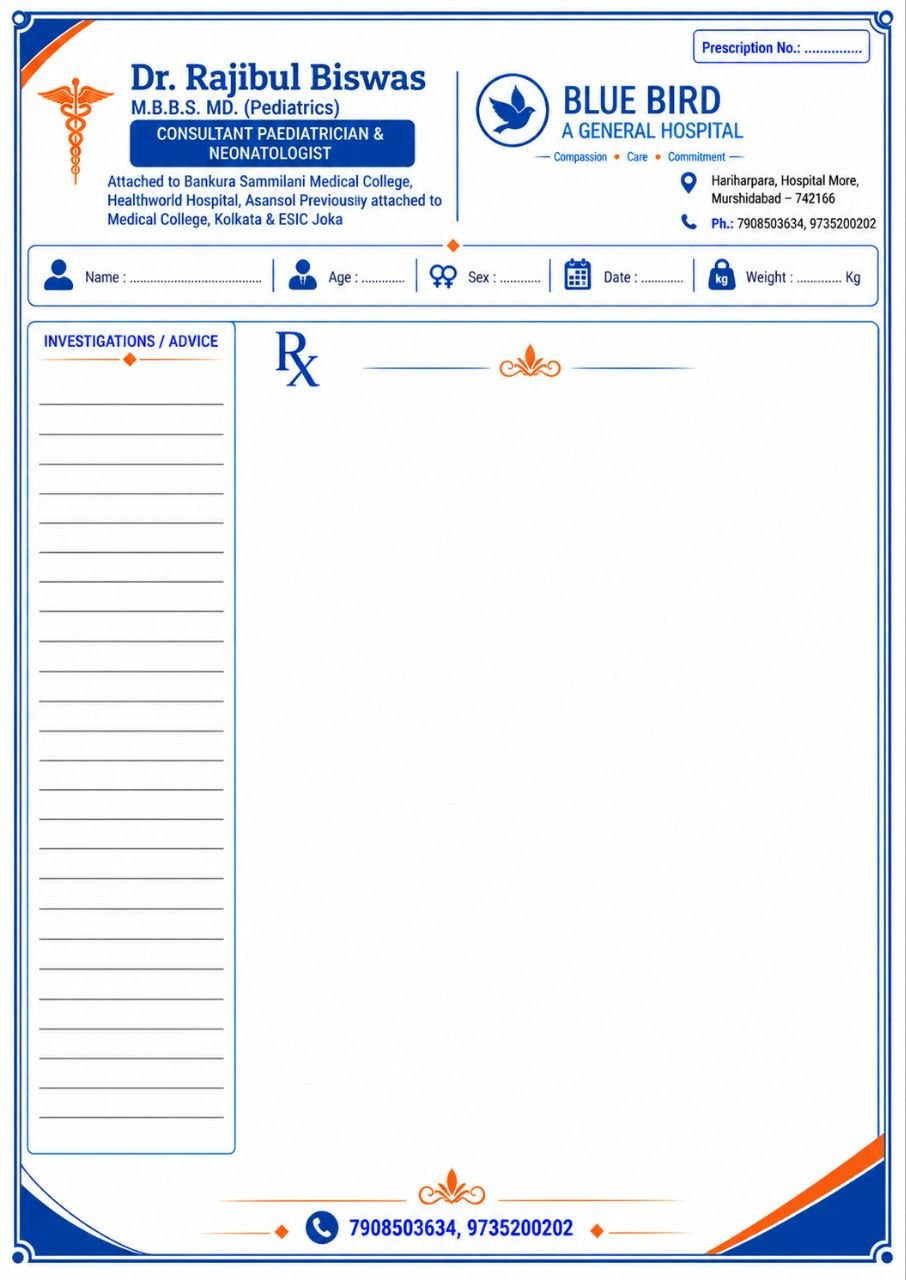
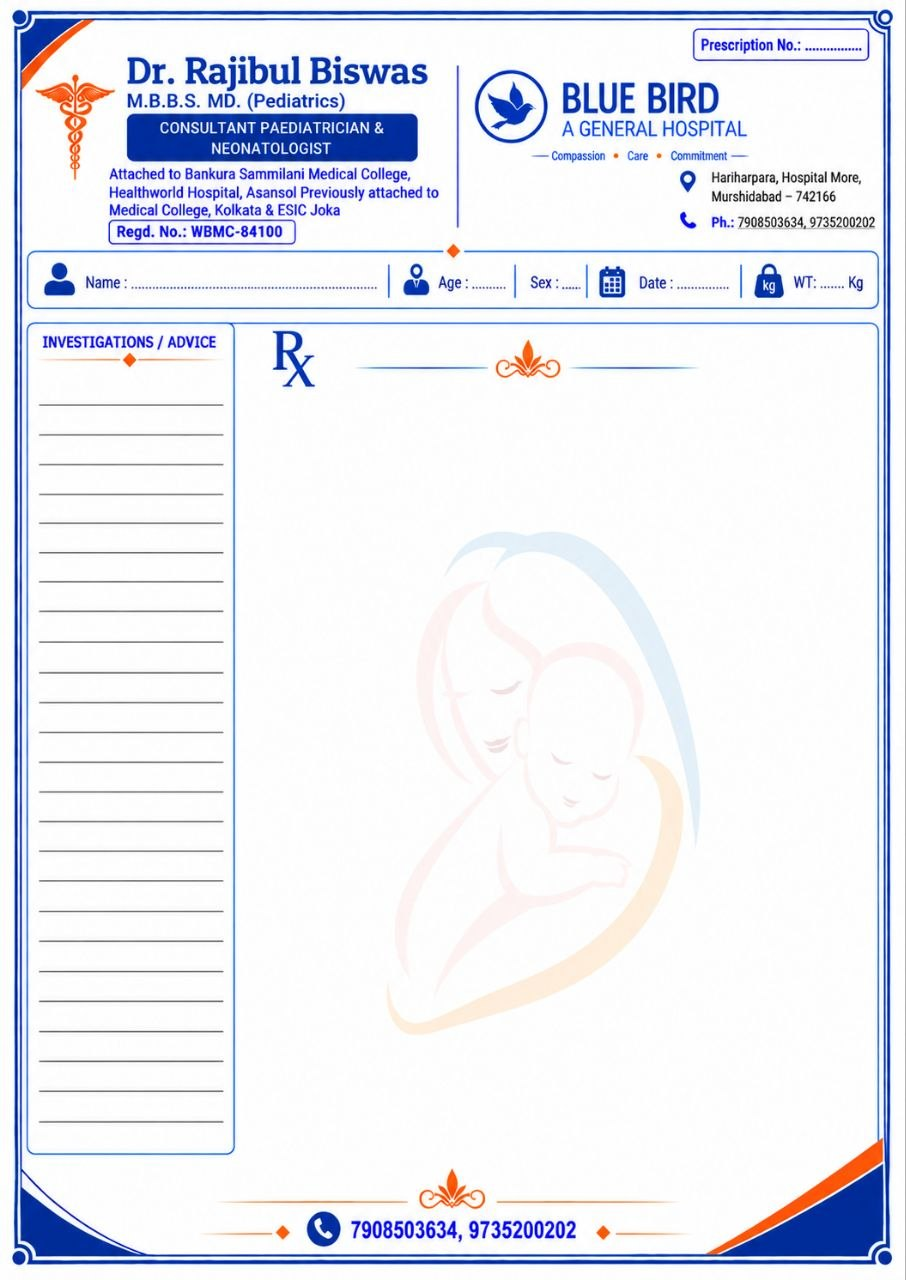
Update Rajibul Biswas prescription pad

Changed region(s): [[0.0, 0.0, 0.989, 1.0], [0.4327, 0.4062, 0.7726, 0.8125]]

diff --git a/app/src/main/java/com/maternaltracker/india/MainActivity.java b/app/src/main/java/com/maternaltracker/india/MainActivity.java
@@ -163,7 +163,7 @@ public class MainActivity extends Activity {
             "MBBS, PGPN, DCH | Child Specialist | REG NO.: 68725 (WBMC)",
             "MBBS, MS (General Surgeon) | Consultant Laparoscopic & General Surgeon | REG NO.: 76636 (WBMC)",
             "M.B.B.S. (WBUHS), M.S. Obstetrics & Gynaecology | Laparoscopic Surgeon | Ex House Physician Burdwan Medical College & Hospital | Ex Medical Officer at Rajnagar Block Hospital | Murshidabad Medical College & Hospital | Regd. 71244 (WBMC)",
-            "M.B.B.S. MD. (Pediatrics) | Consultant Paediatrician & Neonatologist | Attached to Bankura Sammilani Medical College, Healthworld Hospital, Asansol | Previously attached to Medical College, Kolkata & ESIC Joka"
+            "M.B.B.S. MD. (Pediatrics) | Consultant Paediatrician & Neonatologist | Attached to Bankura Sammilani Medical College, Healthworld Hospital, Asansol | Previously attached to Medical College, Kolkata & ESIC Joka | Regd. No.: WBMC-84100"
     };
     private static final String[] PRESCRIPTION_ASSETS = {
             "print_forms/prescription_suyeta_nasrin.jpg",
@@ -4021,6 +4021,13 @@ public class MainActivity extends Activity {
 
         LinearLayout choices = new LinearLayout(this);
         choices.setOrientation(LinearLayout.VERTICAL);
+        ScrollView choiceScroller = new ScrollView(this);
+        choiceScroller.setFillViewport(false);
+        choiceScroller.setOverScrollMode(View.OVER_SCROLL_IF_CONTENT_SCROLLS);
+        int maxChoiceHeight = Math.min(
+                dp(520),
+                (int) (getResources().getDisplayMetrics().heightPixels * 0.52f)
+        );
         AlertDialog dialog = new AlertDialog.Builder(this)
                 .setView(content)
                 .setNegativeButton("Cancel", null)
@@ -4039,7 +4046,8 @@ public class MainActivity extends Activity {
             });
             choices.addView(choice);
         }
-        content.addView(choices);
+        choiceScroller.addView(choices, new ScrollView.LayoutParams(-1, -2));
+        content.addView(choiceScroller, new LinearLayout.LayoutParams(-1, maxChoiceHeight));
         dialog.setOnShowListener(ignored -> {
             if (dialog.getWindow() != null) {
                 dialog.getWindow().setBackgroundDrawable(rounded(SURFACE_ALT, dp(CARD_RADIUS), 0, SURFACE_ALT));

diff --git a/SPEC.md b/SPEC.md
@@ -1,7 +1,7 @@
 # Blue Bird Maternal Tracker Specification
 
-Last updated: 2026-09-20
-Current app version: `1.1.37` / versionCode `45`
+Last updated: 2026-09-21
+Current app version: `1.1.38` / versionCode `46`
 Package: `com.maternaltracker.india`  
 Hospital scope: `BLUE BIRD A GENERAL HOSPITAL`
 
@@ -72,7 +72,7 @@ Prescription selection:
 - DR. SUDIPTA BISWAS - MBBS, PGPN, DCH
 - DR. PIARUL SK - MBBS, MS (General Surgeon)
 - DR. RAJU MAHAJAN - M.B.B.S. (WBUHS), M.S. Obstetrics & Gynaecology
-- DR. RAJIBUL BISWAS - M.B.B.S. MD. (Pediatrics)
+- DR. RAJIBUL BISWAS - M.B.B.S. MD. (Pediatrics), Regd. No.: WBMC-84100
 
 OT Paper selection is a single-choice document sheet. The operator selects and prints one of:
 

diff --git a/CHANGELOG.md b/CHANGELOG.md
@@ -1,5 +1,11 @@
 # Changelog
 
+## v1.1.38 - 2026-09-21
+
+- Replaced DR. RAJIBUL BISWAS prescription printing with the updated supplied original prescription image.
+- Updated the Dr. Rajibul Biswas selection details with `Regd. No.: WBMC-84100`.
+- Fixed the Print Desk choice dialog so all doctors remain reachable on compact and landscape screens.
+
 ## v1.1.37 - 2026-09-20
 
 - Replaced the bottom navigation Reports item with Print Desk so printing is a primary staff workflow.
